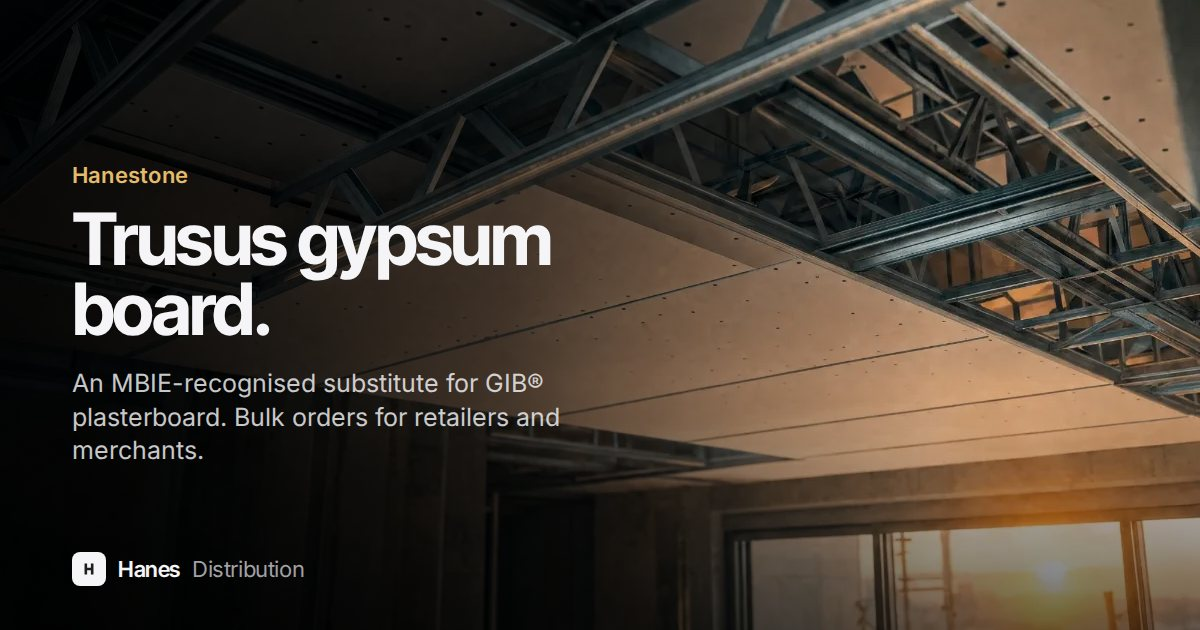
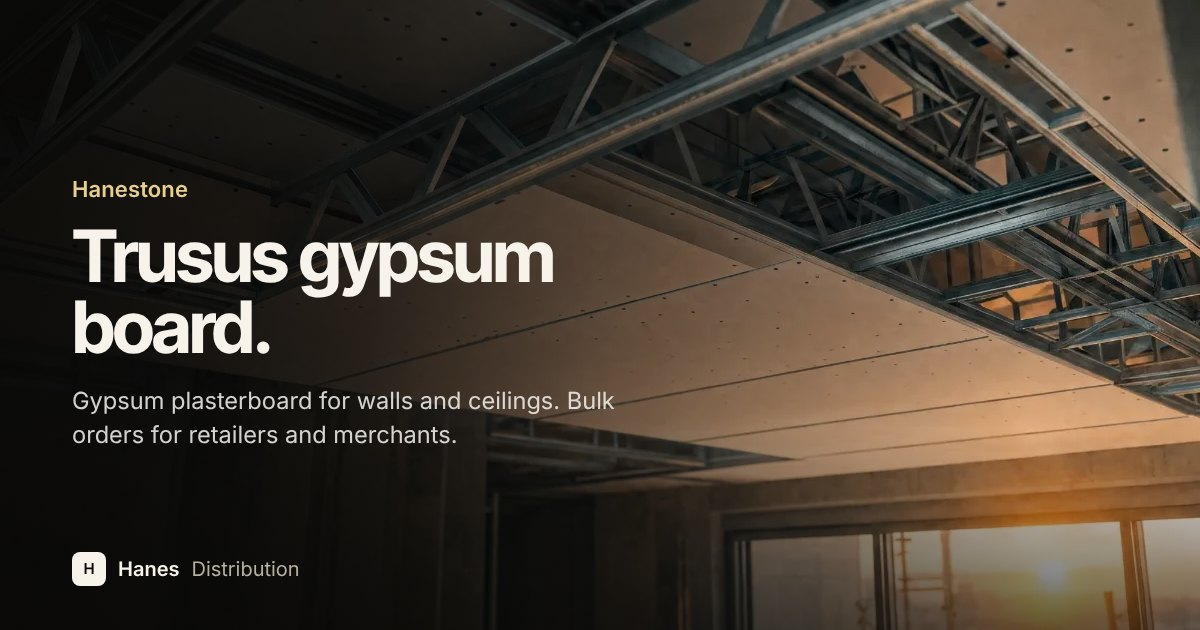
Redraw the Hanesteel and Hanestone sharing images without withdrawn claims
The pages and descriptions dropped the CodeMark, BRANZ and MBIE claims
in #12, but the 1200 x 630 sharing images still said "CodeMark
certified" and "An MBIE-recognised substitute for GIB plasterboard",
so every link shared to social or chat kept showing them (#41).

The images were rendered from HTML but the template was never
committed, so scripts/og.mjs now holds it and the words for both cards:
the same page photos, crop, shade, type and Hanes mark as before, with
neutral lines in place of the claims. npm run og redraws them with
Playwright, which is passed in by path rather than added to the site's
dependencies.

npm run check and tests/og.test.mjs now refuse CodeMark, BRANZ, MBIE,
certification and "substitute for GIB" wording in those cards.

Claude-Session: https://claude.ai/code/session_016NjR6Xmqg3uZArohvXzFW3

Changed region(s): [[0.0617, 0.2714, 0.5242, 0.754], [0.0925, 0.8746, 0.2467, 0.9349], [0.8942, 0.6635, 1.0, 0.7238]]

diff --git a/README.md b/README.md
@@ -50,13 +50,15 @@ Optional: `ENQUIRY_TO` sends enquiries somewhere else (separate several addresse
 
 `npm run seo` writes every page's title, description, canonical address, sharing tags (with the 1200 × 630 images in `og/`) and structured data for Google, plus `sitemap.xml` and `robots.txt`, from the list in `scripts/seo.mjs`. When the site moves to its own domain, run `npm run seo -- --site https://www.hanesdistribution.co.nz` and commit the result.
 
+The Hanesteel and Hanestone sharing images are drawn by `npm run og` from the words in `scripts/og.mjs` (it needs Playwright; see the top of that file). `npm run check` refuses any certification claim in those words.
+
 `vercel.json` adds security headers, caching for images, films and fonts, and short addresses such as `/hisense`, `/contact` and `/track`.
 
 ## Working on the site
 
 - `npm install`, then `npm run dev` to run the whole site with the API on http://localhost:3000
 - `npm test`: the enquiry API tests (sends through stand-in Resend and SMTP servers, so nothing leaves your machine)
-- `npm run check`: every link, anchor, image and file, one `<h1>` per page, alt text, and the SEO tags, sitemap and robots.txt
+- `npm run check`: every link, anchor, image and file, one `<h1>` per page, alt text, and the SEO tags, sitemap and robots.txt, and no withdrawn claims in the sharing image words
 
 - `node scripts/smoke.mjs <url>`: tests a deployed site (pages, sitemap, short URLs, headers, and the enquiry API without sending an email)
 
